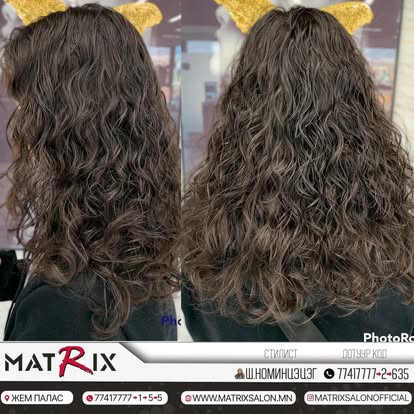
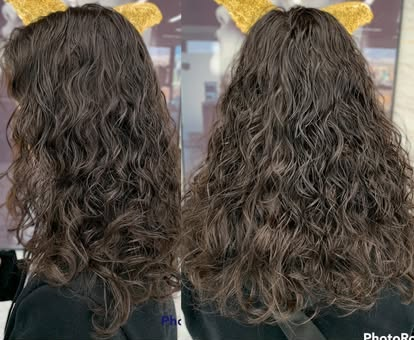
Crop the retired number out of two gallery photos
The sweep for 7741-7777 turned up something no grep could: the number is live on
zurag.html as pixels. Pictures_Page/Male/pic9.jpg and Pictures_Page/Female/pic7.jpg
each carry a contact banner burned across the bottom of the frame, and each
carries the retired number twice —

  Б.ТҮВШИНЖАРГАЛ ☎ 77417777→2→610   |   ☎ 77417777→1→5→5
  Ш.НОМИНЦЭЦЭГ  ☎ 77417777→2→635   |   ☎ 77417777→1→5→5

— as a stylist extension and a reception line. Both images are referenced twice
each by zurag.html (carousel and grid) and both were confirmed serving from
production. Text replacement cannot touch them, so the banners are cropped off:
2048x2048 → 2048x1699 and 414x414 → 414x340, re-encoded with each file's own
quantization tables and chroma sampling, so the photograph above the banner is
unchanged and both files got smaller (480,867 and 31,951 bytes, down from
522,426 and 40,309). The gallery scales every image to a 3:4 frame with
object-fit: cover, so the cards look the same minus the banner.

Worth knowing beyond the number: those banners also advertise ЖЕМ ПАЛАС and
WWW.MATRIXSALON.MN — a branch and a domain that are not this salon's. Three more
gallery images carry the same banner's header strip cropped above the digits;
they hold no contact details and are left alone. docs/STATUS.md now records
where this class of thing hides, so the next person checks the bottom of a frame
before adding a photo.

Also corrected that doc's claim that the deployed site is unreachable from this
[…]

diff --git a/docs/STATUS.md b/docs/STATUS.md
@@ -73,11 +73,44 @@ loses bookable slots; too short and the original bug comes back milder. Someone
 at the salon should walk the list. Editing the JSON is the entire change — no
 code, no redeploy logic, and the booking UI picks it up on next load.
 
+### The gallery photos are someone else's marketing
+
+The retired booking number **7741-7777 was live on `zurag.html` as pixels**, not
+text — burned into a contact banner across the bottom of `Pictures_Page/Male/pic9.jpg`
+and `Pictures_Page/Female/pic7.jpg`, twice in each (a reception line
+`77417777→1→5→5` and a stylist extension). No grep over the repo could see it.
+Both banners were cropped off; the photos above them are untouched, re-encoded
+with their own quantization tables so nothing else changed.
+
+The banners say more than a phone number. They advertise **ЖЕМ ПАЛАС** (Gem
+Palace) and **WWW.MATRIXSALON.MN** — a different branch and a different domain
+from this salon's own Yaarmag address and `matrixecosalon.org`. Three more
+gallery images (`Female/pic3`, `pic4`, `pic5`) carry the same banner's header
+strip, cropped so the digits fall below the frame; they hold no contact details
+and were left alone. Four posters in `files/` (`Budag.jpeg`, `OfficeOroolt.jpeg`,
+`HollywoodOroolt.jpeg`, `EleganceOroolt.jpeg`) carry a **seven-branch location
+list** and third-party financing logos, and `files/OfficeColor.png` carries a
+**15% OFF campaign that expired 2023-02-20** — which is why `SERVICE_IMAGE_MAP`
+no longer points «Будаг» or «Оффис колор» at them.
+
+**For a human:** these assets came from the larger Matrix chain's marketing, so
+any re-export can bring the wrong number, branch or domain back with it. Before
+adding a picture to the gallery or to `SERVICE_IMAGE_MAP`, look at the bottom
+10% of the frame. Photographs of this salon's own work, without a burned-in
+banner, would retire the problem for good.
+
 ### Live-site verification was never done
 
 The session that wrote this could not reach the deployed site: the environment's
 egress policy blocks `*.vercel.app` **and** `matrixecosalon.org` (403 at the
 gateway), and preview deployments sit behind Vercel SSO.
+
+**There is a way through, found later:** the Vercel MCP tool
+`mcp__Vercel__web_fetch_vercel_url` fetches production URLs fine — that is how
+the burned-in number above was confirmed live, and how `robots.txt`,
+`sitemap.xml` and `manifest.json` were confirmed to 404. It does **not** get past
+SSO on a preview deployment's HTML, so a branch still has to merge before the
+rendered page can be read.
 
 What was done instead: the real Express app run over real HTTP with only the
 Google Calendar client stubbed — same routing, same Cyrillic query decoding,
